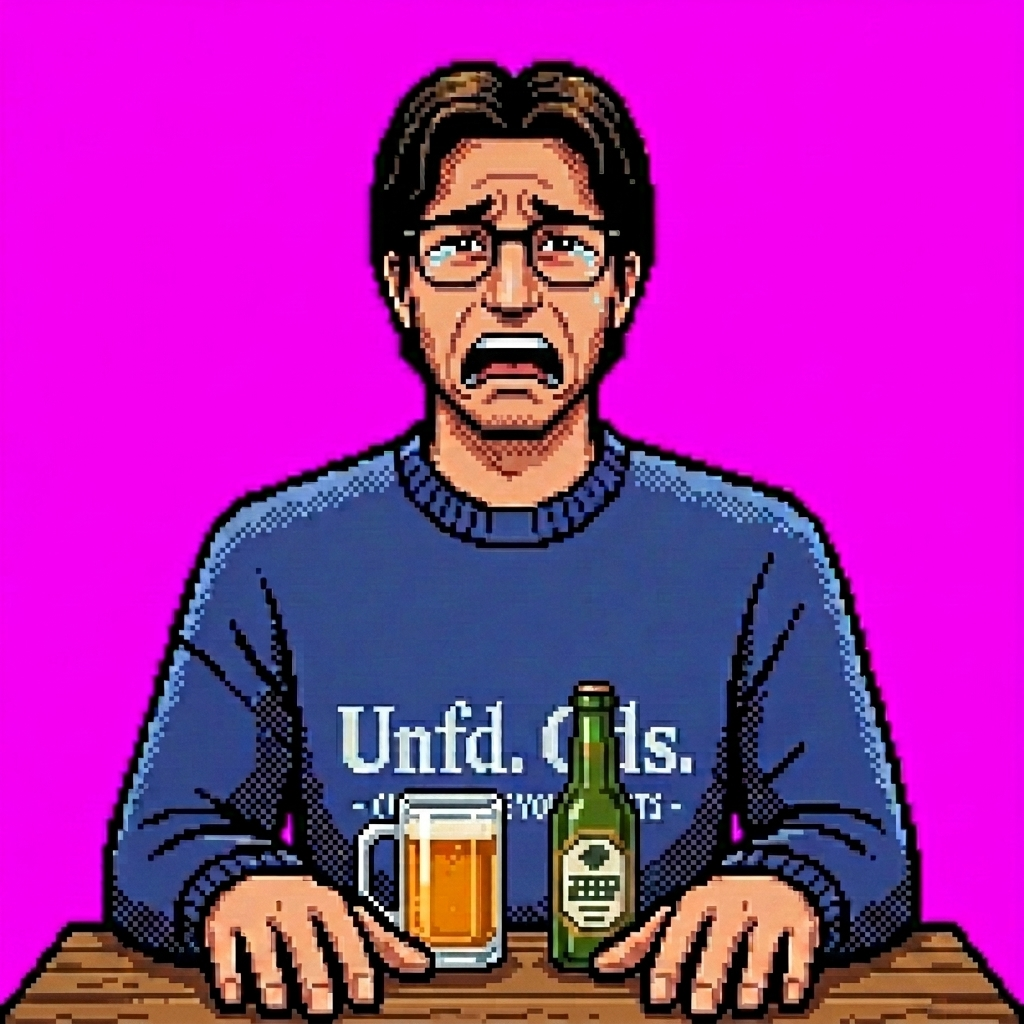
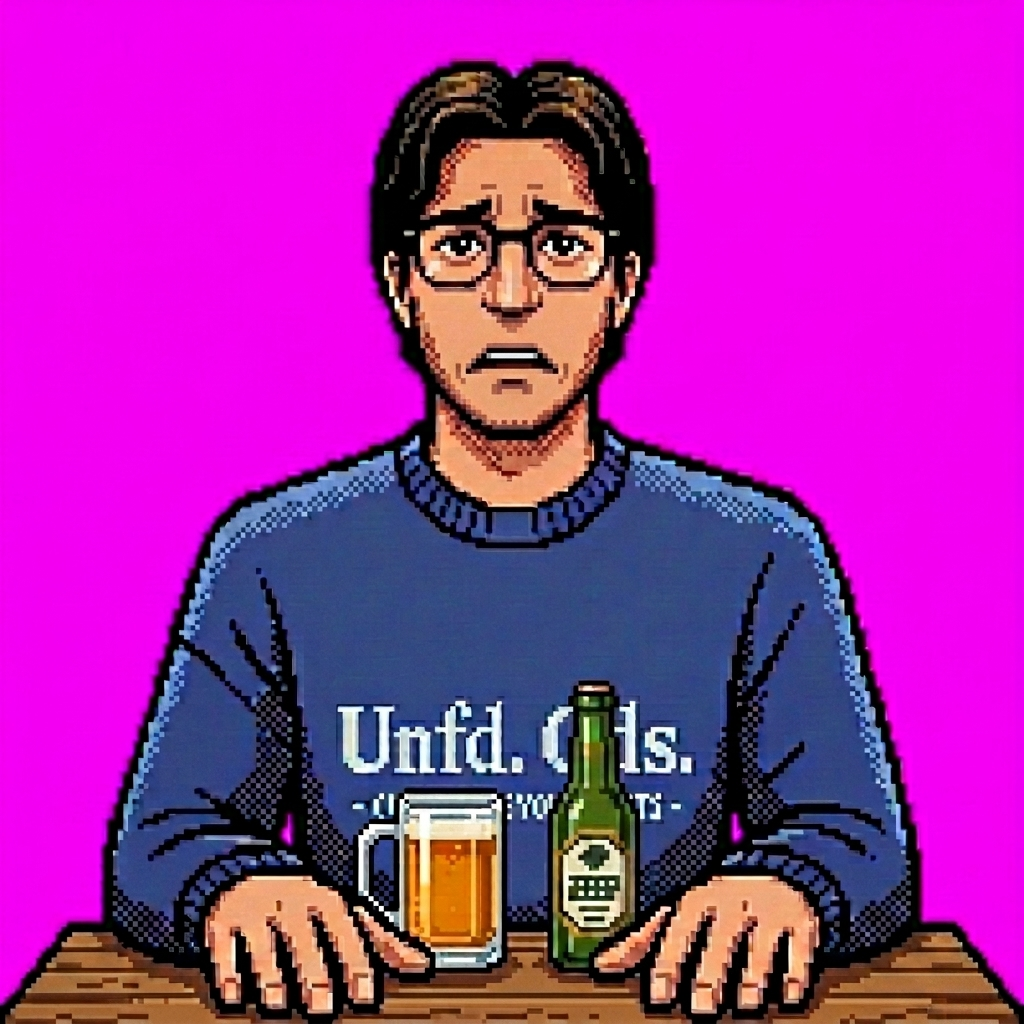
dc

Changed region(s): [[0.4062, 0.1562, 0.5938, 0.4375]]

diff --git a/index.html b/index.html
@@ -61,19 +61,22 @@
     const audioKizginlik   = new Audio('kizginlik.m4a');
     const audioOlumsuz     = new Audio('olumsuzBap.m4a');
 
-    // All audios for "is anything playing?" check
+    // All audios list (for stopAllAudio)
     const allAudios = [...faceAudios, ...drinkAudios, audioHosgeldiniz, audioKizginlik, audioOlumsuz];
 
+    // Event-driven talking flag — set true on play, false immediately on ended
+    let talkingActive = false;
+
+    function playWithTalking(audio) {
+        talkingActive = true;
+        audio.currentTime = 0;
+        audio.addEventListener('ended', () => { talkingActive = false; }, { once: true });
+        audio.play().catch(e => console.log(e));
+    }
+
     function stopAllAudio() {
+        talkingActive = false;
         allAudios.forEach(a => { a.pause(); a.currentTime = 0; });
-    }
-
-    function isAudioPlaying(audio) {
-        return !audio.paused && !audio.ended;
-    }
-
-    function isAnyAudioPlaying() {
-        return allAudios.some(a => isAudioPlaying(a));
     }
 
     // --- INTRO ---
@@ -83,6 +86,8 @@
     startBtn.addEventListener('click', () => {
         introScreen.style.opacity = '0';
         setTimeout(() => { introScreen.style.display = 'none'; }, 500);
+        audioHosgeldiniz.currentTime = 0;
+        audioHosgeldiniz.play().catch(e => console.log(e));
     });
 
     // --- IMAGE LOADING ---
@@ -251,10 +256,9 @@
             requestAnimationFrame(loop);
             if (isAnimating) return;
 
-            const angryPlaying = isAudioPlaying(audioKizginlik);
-            const sadPlaying   = isAudioPlaying(audioOlumsuz);
-            const anyPlaying   = isAnyAudioPlaying();
-            const talking      = anyPlaying;
+            const angryPlaying = talkingActive && !audioKizginlik.paused && !audioKizginlik.ended;
+            const sadPlaying   = talkingActive && !audioOlumsuz.paused && !audioOlumsuz.ended;
+            const talking      = talkingActive;
 
             let needsUpdate = false;
 
@@ -316,8 +320,7 @@
     function playFaceSound() {
         stopAllAudio();
         const audio = faceAudios[Math.floor(Math.random() * faceAudios.length)];
-        audio.currentTime = 0;
-        audio.play().catch(e => console.log(e));
+        playWithTalking(audio);
     }
 
     function playDrinkAnimation() {
@@ -326,8 +329,7 @@
 
         stopAllAudio();
         const audio = drinkAudios[Math.floor(Math.random() * drinkAudios.length)];
-        audio.currentTime = 0;
-        audio.play().catch(e => console.log(e));
+        playWithTalking(audio);
 
         ctx.putImageData(dataDrink, 0, 0);
 
@@ -344,8 +346,7 @@
         isAnimating = true;
 
         stopAllAudio();
-        audioHosgeldiniz.currentTime = 0;
-        audioHosgeldiniz.play().catch(e => console.log(e));
+        playWithTalking(audioHosgeldiniz);
 
         ctx.putImageData(dataPour, 0, 0);
 
@@ -362,14 +363,12 @@
 
     function playAngryAnimation() {
         stopAllAudio();
-        audioKizginlik.currentTime = 0;
-        audioKizginlik.play().catch(e => console.log(e));
+        playWithTalking(audioKizginlik);
     }
 
     function playSadAnimation() {
         stopAllAudio();
-        audioOlumsuz.currentTime = 0;
-        audioOlumsuz.play().catch(e => console.log(e));
+        playWithTalking(audioOlumsuz);
     }
 
     // --- CLICK / TOUCH HANDLER ---